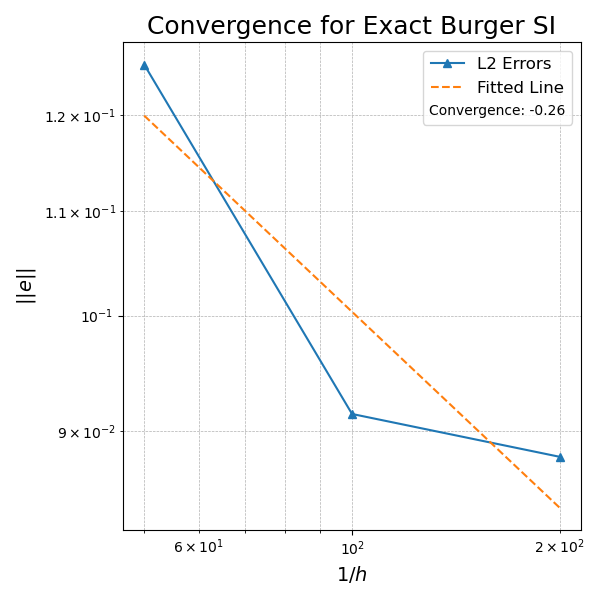
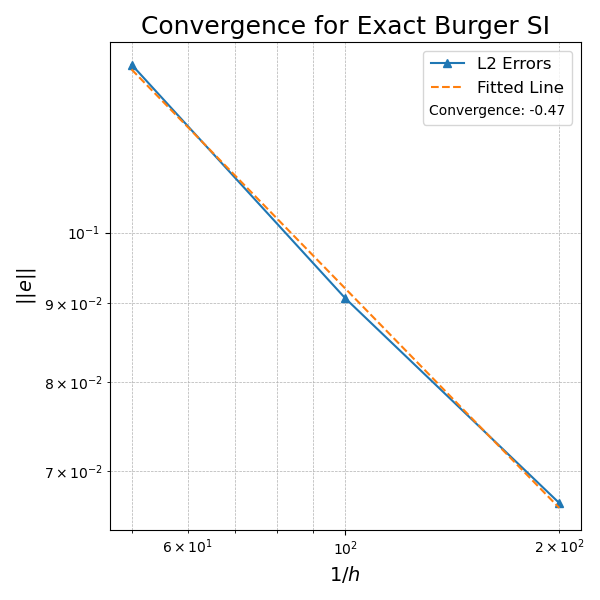
Smoothing implemented

diff --git a/Code/Utils/SI.py b/Code/Utils/SI.py
@@ -65,7 +65,7 @@ class SI:
             epsilon.x.array[node] = psi_alpha * self.Cm * hi * fi_norm
         
         return epsilon
-
+        
     def get_epsilon_linear(self, w, node_patches, h_CG, u_n, stiffness_matrix, plot_func):
         V = fem.functionspace(self.domain, ("Lagrange", 1))
         epsilon = fem.Function(V)
@@ -190,3 +190,46 @@ class SI:
     #         epsilon_array[node] = alpha * self.Cm * hi * fi_norm
 
     #     return epsilon
+
+    # def get_alpha_nonlinear(self, velocity_field, node_patches, h_CG, u_n, stiffness_matrix, plot_func):
+    #     # Create a function to store epsilon
+    #     V = fem.functionspace(self.domain, ("Lagrange", 1))
+    #     alphas = fem.Function(V)
+    #     alphas_array = alphas.x.petsc_vec  # Direct array access for efficiency
+
+    #     # Access stiffness matrix as PETSc Mat
+    #     mat = stiffness_matrix
+    #     start, end = mat.getOwnershipRange()
+
+    #     # Extract array data
+    #     u_values = u_n.x.array
+
+    #     # Loop through rows corresponding to local nodes
+    #     for row in range(start, end):
+    #         cols, bij = mat.getRow(row)  # Retrieve non-zero entries
+    #         node = row
+
+    #         numerator = 0.0
+    #         denominator = 0.0
+
+    #         nonzero_mask = bij != 0
+    #         cols = cols[nonzero_mask]
+    #         bij = bij[nonzero_mask]
+
+    #         for idx, adj_node in enumerate(cols):
+    #             if node != adj_node:  # Ignore diagonal entries
+    #                 delta_u = u_values[adj_node] - u_values[node]
+    #                 beta = bij[idx]
+
+    #                 numerator += beta * delta_u
+    #                 denominator += abs(beta) * abs(delta_u)
+
+    #         numerator = abs(numerator)
+    #         denominator = max(denominator, self.eps)
+    #         alpha = numerator / denominator
+    #         alpha_psi = self.sigmoid_activation(alpha)
+    #         plot_func.x.array[node] = alpha_psi
+
+    #         # Store computed epsilon
+    #         alphas_array[node] = alpha_psi
+    #     return alphas

diff --git a/Code/Burgers_equation/Exact_Burger_SI.py b/Code/Burgers_equation/Exact_Burger_SI.py
@@ -10,7 +10,7 @@ from dolfinx import fem, mesh, io, plot
 from dolfinx.fem.petsc import assemble_matrix, NonlinearProblem, LinearProblem
 from dolfinx.nls.petsc import NewtonSolver
 
-from Utils.helpers import get_nodal_h
+from Utils.helpers import get_nodal_h, smooth_vector
 from Utils.SI import SI
 from Utils.PDE_plot import PDE_plot
 
@@ -22,7 +22,7 @@ location_data = os.path.join(script_dir, 'Data/SI') # location = './Data'
 pde = PDE_plot()
 PLOT = False
 
-N = 200
+N = 100
 domain = mesh.create_rectangle(MPI.COMM_WORLD, [np.array([0, 0]), np.array([1, 1])], [N, N], cell_type=mesh.CellType.triangle)
 
 V = fem.functionspace(domain, ("Lagrange", 1))
@@ -94,7 +94,7 @@ plot_func.name = "plot_func"
 
 h_CG = get_nodal_h(domain)
 
-CFL = 0.2
+CFL = 0.5
 t = 0  # Start time
 T = 0.5 # Final time
 dt = CFL * min(h_CG.x.array)
@@ -121,11 +121,11 @@ boundary_facets = mesh.locate_entities_boundary(
 boundary_dofs = fem.locate_dofs_topological(V, fdim, boundary_facets)
 
 # Time-dependent output
-xdmf_alpha = io.XDMFFile(domain.comm, f"{location_data}/alpha_sigmoid_N{N}.xdmf", "w")
+xdmf_alpha = io.XDMFFile(domain.comm, f"{location_data}/alpha_smooth_N{N}.xdmf", "w")
 xdmf_alpha.write_mesh(domain)
-xdmf_epsilon = io.XDMFFile(domain.comm, f"{location_data}/epsilon_sigmoid_N{N}.xdmf", "w")
+xdmf_epsilon = io.XDMFFile(domain.comm, f"{location_data}/epsilon_smooth_N{N}.xdmf", "w")
 xdmf_epsilon.write_mesh(domain)
-xdmf_sol = io.XDMFFile(domain.comm, f"{location_data}/sol_N{N}.xdmf", "w")
+xdmf_sol = io.XDMFFile(domain.comm, f"{location_data}/sol_smooth_N{N}.xdmf", "w")
 xdmf_sol.write_mesh(domain)
 
 # Define solution variable, and interpolate initial solution for visualization in Paraview
@@ -189,6 +189,8 @@ for i in tqdm(range(num_steps)):
     n, converged = solver.solve(uh)
     assert (converged)
     uh.x.scatter_forward()
+
+    smooth_vector(domain, uh, node_patches)
 
     # Update solution at previous time step (u_n)
     u_old.x.array[:] = u_n.x.array

diff --git a/Code/Utils/helpers.py b/Code/Utils/helpers.py
@@ -36,3 +36,17 @@ def get_nodal_h(domain):
     h_CG = lin_problem.solve() # returns dolfinx.fem.Function
 
     return h_CG
+
+def smooth_vector(domain, u, patches):
+    l = 4    
+
+    for node, adjacent_nodes in patches.items():
+        # node = i and adjacent_nodes (including self) = j
+        # print("Node:", node, " - Adjacent nodes:", adjacent_nodes)
+        sum = 0
+        for adj_node in adjacent_nodes:
+            if node != adj_node:
+                sum += u.x.array[adj_node]
+
+        d = len(adjacent_nodes) - 1
+        u.x.array[node] = (sum + (l-1)*d*u.x.array[node]) / (l*d)

diff --git a/Code/Burgers_equation/Exact_Burger_SI_conv.py b/Code/Burgers_equation/Exact_Burger_SI_conv.py
@@ -93,10 +93,12 @@ for mesh_size in mesh_sizes:
     u_old.name = "u_old"
     u_old.interpolate(initial_condition)
 
-    CFL = 0.2
+    h_CG = get_nodal_h(domain)
+
+    CFL = 0.5 # 0.2 in benchmark paper
     t = 0  # Start time
     T = 0.5 # Final time
-    dt = 0.01
+    dt = CFL * min(h_CG.x.array)
     num_steps = int(np.ceil(T/dt))
     Cm = 0.5
     eps = 1e-8
@@ -130,7 +132,6 @@ for mesh_size in mesh_sizes:
     u, v = ufl.TrialFunction(V), ufl.TestFunction(V)
 
 
-    h_CG = get_nodal_h(domain)
     plot_func = fem.Function(V)
     for i in tqdm(range(num_steps)):
         t += dt

diff --git a/Code/Burgers_equation/Exact_Burger_RV_conv.py b/Code/Burgers_equation/Exact_Burger_RV_conv.py
@@ -97,11 +97,12 @@ for mesh_size in mesh_sizes:
     u_old.name = "u_old"
     u_old.interpolate(initial_condition)
 
+    h_CG = get_nodal_h(domain)
 
-    CFL = 0.2
+    CFL = 0.5 # 0.2 in benchmark paper
     t = 0  # Start time
     T = 0.5 # Final time
-    dt = 0.01
+    dt = CFL * min(h_CG.x.array)
     num_steps = int(np.ceil(T/dt))
     Cvel = 0.5
     CRV = 10
